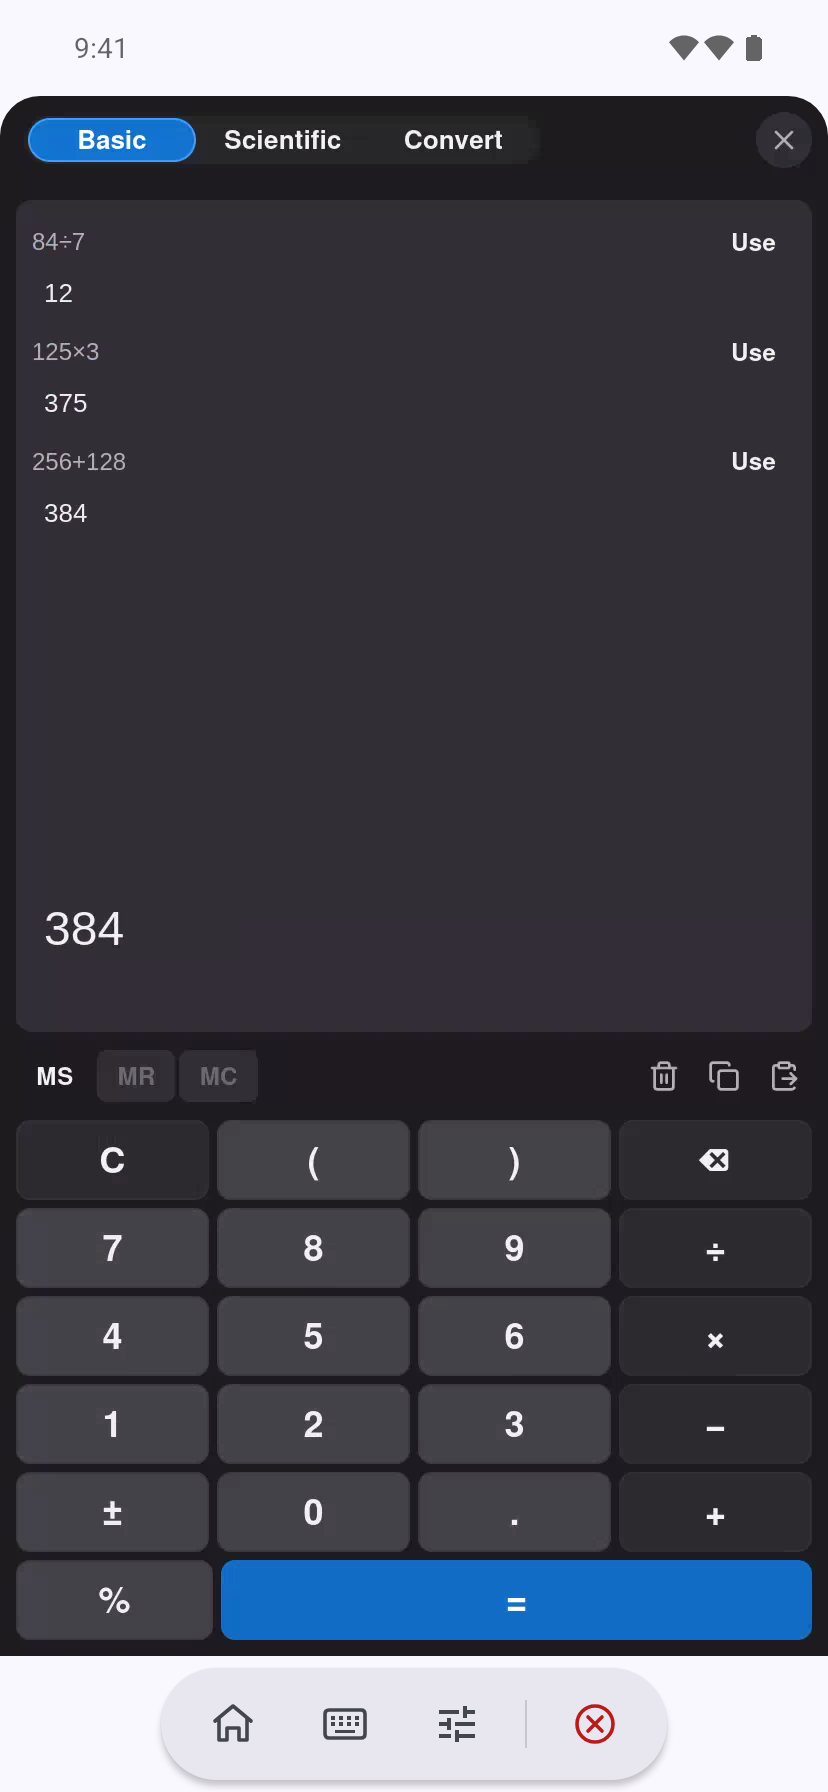
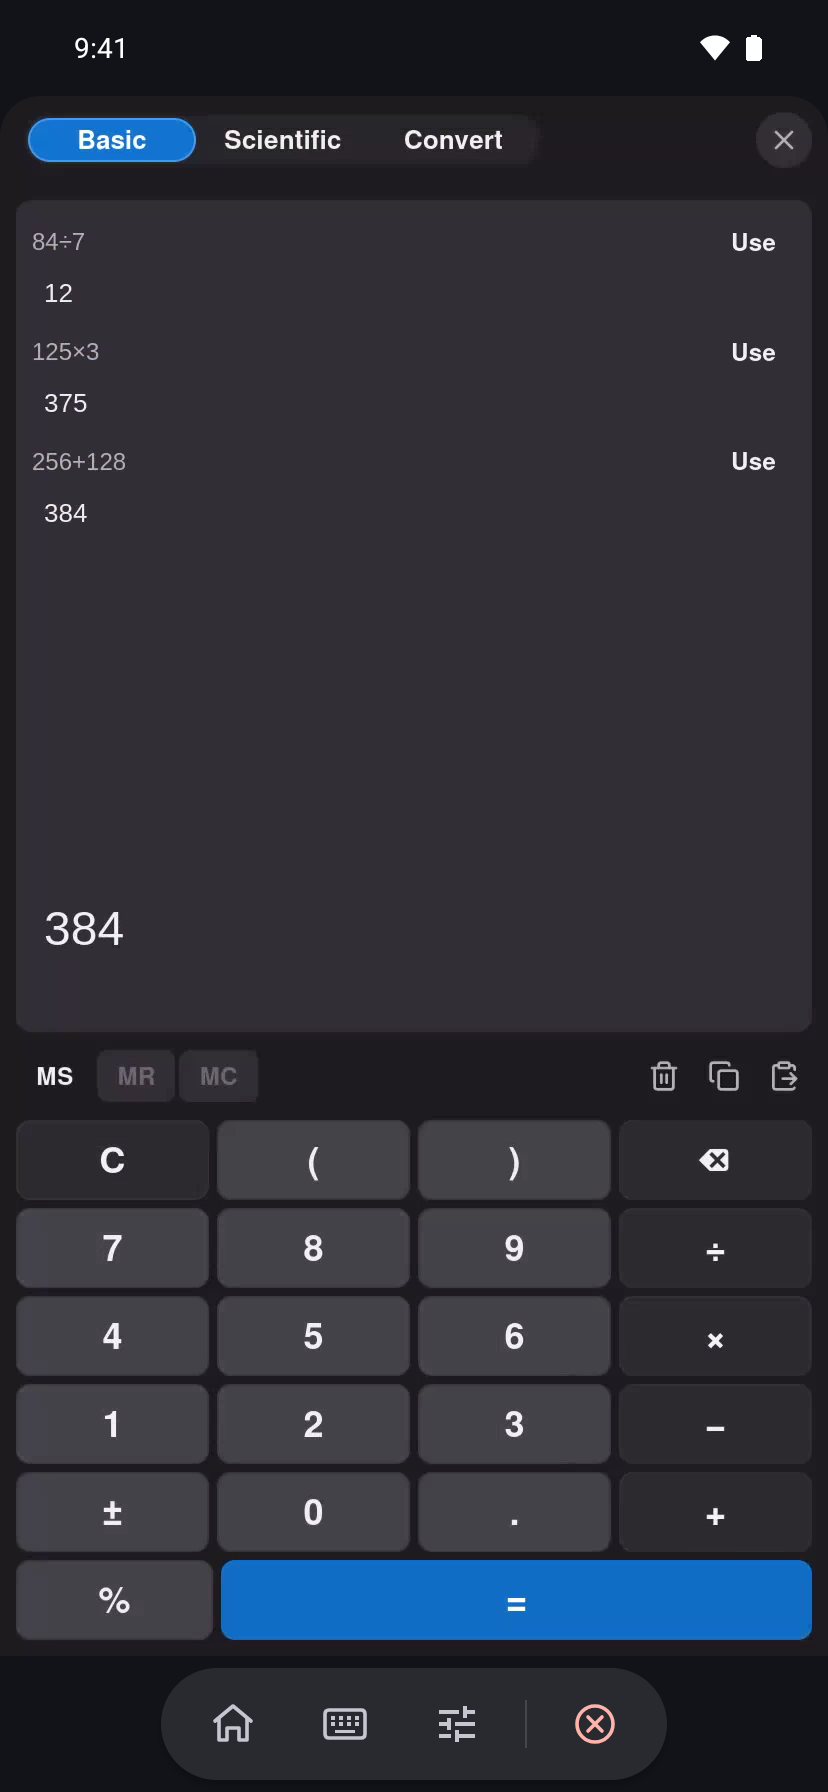
Show dark Android screenshots and a full CPU history

Changed region(s): [[0.0, 0.9062, 1.0, 1.0], [0.0, 0.0, 1.0, 0.0938]]

diff --git a/README.md b/README.md
@@ -6,7 +6,7 @@ The computer runs the [Phone Link host](https://github.com/enz1m/enzimos-phone-l
 
 <table>
   <tr>
-    <td align="center"><a href="docs/screenshots/launcher.png"><img src="docs/screenshots/launcher.png" width="210" alt="Paired computer and enzimOS app icons"></a><br><sub>App launcher</sub></td>
+    <td align="center"><a href="docs/screenshots/launcher.png"><img src="docs/screenshots/launcher.png" width="210" alt="Paired computer, two-minute CPU graph, and enzimOS app icons"></a><br><sub>App launcher</sub></td>
     <td align="center"><a href="docs/screenshots/calculator.png"><img src="docs/screenshots/calculator.png" width="210" alt="Calculator with a calculation history in a phone-sized stream"></a><br><sub>Calculator</sub></td>
     <td align="center"><a href="docs/screenshots/text.png"><img src="docs/screenshots/text.png" width="210" alt="Text showing a sample Markdown document in a phone-sized stream"></a><br><sub>Text</sub></td>
   </tr>
